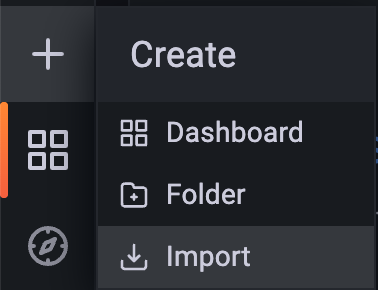
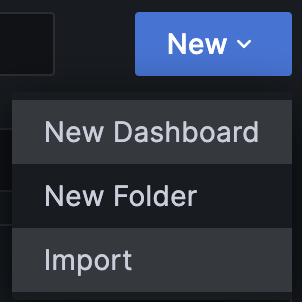
Change grafana documentation
Reflect new grafana version

Close #5

diff --git a/README.md b/README.md
@@ -157,11 +157,12 @@ Once connected as administrator, you will start by settings data sources.
 
 #### 1. Add Amazon CloudWatch Data source
 
-1. Select the **wheel** on the side menu.<br/>
-   ![Grafana Data sources](<docs/images/grafana-data-sources.png>)
+1. Select the **hamburger** menu on the left pane.<br/>
+1. Expand **Administration**<br/>
+   <img alt="Grafana Data sources" src="docs/images/grafana-data-sources.png"  width="30%" height="30%"> <br />
 1. Choose **Data sources**.
-1. Choose **Add data source**.
-1. Choose **CloudWatch**. <br />
+1. Choose **Add new data source**.
+1. Select **CloudWatch**. <br />
    <img alt="Grafana coudwatch" src="docs/images/grafana-cloudwatch.png"  width="50%" height="50%"> <br />
 1. On the **Default Region** menu, choose your **AWS Region**.
 1. Choose **Save & test**.
@@ -182,10 +183,11 @@ Copy the output that you will use in the setup of Amazon Athena data source in A
 
 In the Amazon Managed Grafana dashboard:
 
-1. Select the **wheel** on the side menu.<br/>
-   ![Grafana Data sources](<docs/images/grafana-data-sources.png>)
+1. Select the **hamburger** menu on the left pane.<br/>
+1. Expand **Administration**<br/>
+   <img alt="Grafana Data sources" src="docs/images/grafana-data-sources.png"  width="30%" height="30%"> <br />
 1. Choose **Data sources**.
-1. Choose **Add data source**.
+1. Choose **Add new data source**.
 1. Choose **Amazon Athena**.<br />
    <img alt="Grafana athena" src="docs/images/grafana-athena.png"  width="50%" height="50%"> <br />
 1. On the **Default Region** menu, choose your **AWS Region**.
@@ -213,10 +215,13 @@ python3 ./generate-grafana-dashboard.py --table ${TABLE}
 ```
 
 Once you have created your dashboard in json format, you will import it in Amazon Managed Grafana:
-1. Select the **squares** on the side menu.<br/>
-    <img alt="Grafana import" src="docs/images/grafana-import.png"  width="20%" height="20%"> <br />
+1. Select the **hamburger** menu on the left pane.<br/>
+1. Choose **Dashboards**.<br/>
+   <img alt="Grafana Dashboard" src="docs/images/grafana-dashboard.png"  width="30%" height="30%"> <br />
+1. Choose **New** on the right side.<br/>
 1. Choose **Import**. <br />
-1. Choose **Upload JSON file**, select the `batch-grafana-dashboard.json` file.
+    <img alt="Grafana import" src="docs/images/grafana-import.png"  width="20%" height="20%"> <br />
+1. Choose **Upload dashboard JSON file**, select the `batch-grafana-dashboard.json` file.
 1. Choose **Load**.
 1. Select the **Athena** and **CloudWatch** data sources your created previously.
    <img alt="Grafana import dashboard" src="docs/images/grafana-dashboard-import.png"  width="60%" height="60%"> <br />
